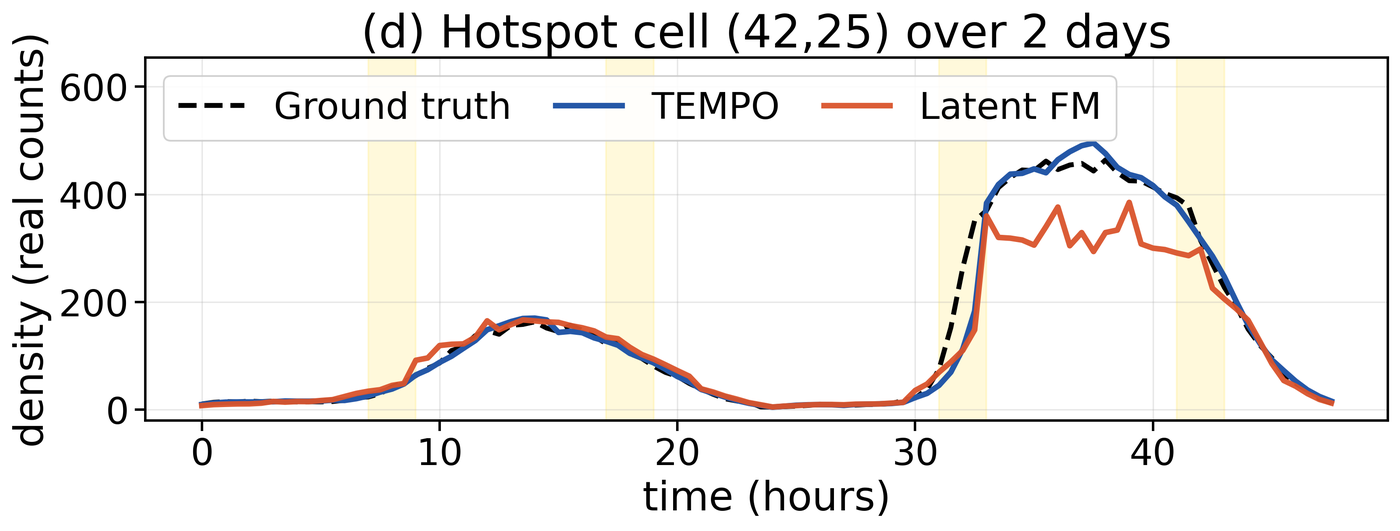
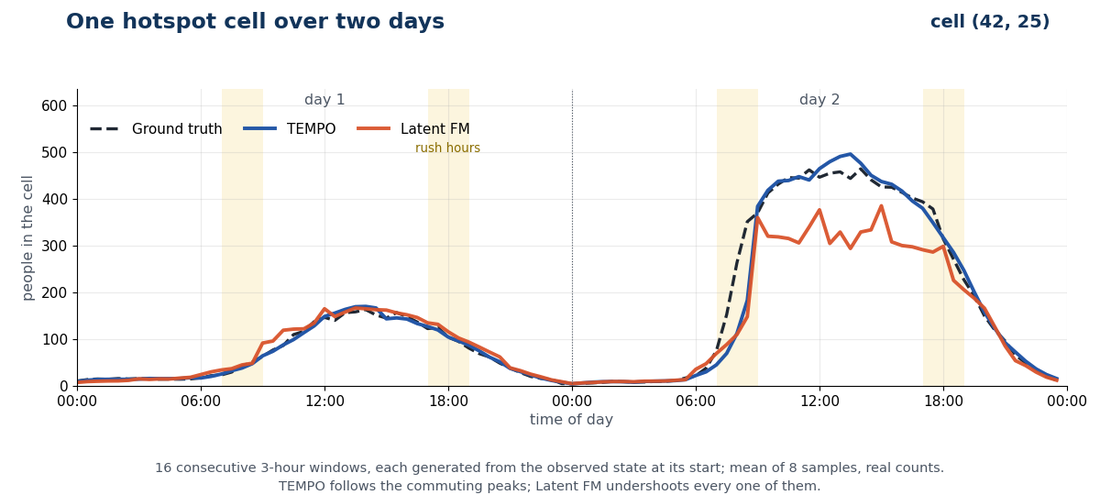
Turn the page into a guided demo
The README no longer reads as a pile of materials. It now walks through five
visuals in one style: the hero animation, a new velocity-field animation,
the architecture, continuity residuals, a two-day hotspot series and the
latent generation paths, each with two or three sentences. Results, ablation
and limitations follow; paper, poster, talk, DOI and contact sit in one table
at the end. Poster crops (headline strip, mass curve, poster thumbnail) are
replaced by figures rendered with poster/make_readme_figures.py from the
cached arrays, matching the hero GIF.

Changed region(s): [[0.0, 0.0, 1.0, 0.8788], [0.1236, 0.9091, 0.8655, 1.0], [0.8964, 0.6364, 0.9273, 0.7273]]

diff --git a/README.md b/README.md
@@ -1,17 +1,17 @@
 <div align="center">
 
-# TEMPO: Physics-Informed Urban Flow Simulation via Velocity-Driven Latent Flow Matching
+# TEMPO
+
+### Physics-Informed Urban Flow Simulation via Velocity-Driven Latent Flow Matching
 
 **Han-Chi Chen** · **Wei-Zhi Wang** · **Chi-Tsun Lin** · **Yi-Chung Chen**<sup>✉</sup>
+<br>Computer Science and Engineering, National Chung Hsing University, Taiwan
 
-Computer Science and Engineering, National Chung Hsing University, Taiwan
+**ACM SIGSPATIAL 2026** · Riverside, CA · Poster S-34
 
-**ACM SIGSPATIAL 2026** · Riverside, CA · November 3–6, 2026 · **Poster S-34**
-
-[![Paper](https://img.shields.io/badge/Paper-PDF-2457A7?style=for-the-badge)](paper/TEMPO_SIGSPATIAL2026.pdf)
-[![Poster](https://img.shields.io/badge/Poster-36%C3%9748%20in-2457A7?style=for-the-badge)](poster/TEMPO_poster_S-34.pdf)
-[![Lightning talk](https://img.shields.io/badge/Lightning%20talk-70%20s%20video-2457A7?style=for-the-badge)](video/TEMPO_lightning_talk.mp4)
-[![DOI](https://img.shields.io/badge/DOI-10.1145%2F3841645.3843372-12345A?style=for-the-badge)](https://doi.org/10.1145/3841645.3843372)
+[![Paper](https://img.shields.io/badge/Paper-PDF-2457A7)](paper/TEMPO_SIGSPATIAL2026.pdf)
+[![Poster](https://img.shields.io/badge/Poster-PDF-2457A7)](poster/TEMPO_poster_S-34.pdf)
+[![Lightning talk](https://img.shields.io/badge/Lightning%20talk-70%20s-2457A7)](video/TEMPO_lightning_talk.mp4)
 
 </div>
 
@@ -20,152 +20,126 @@ Computer Science and Engineering, National Chung Hsing University, Taiwan
 </p>
 
 <p align="center"><b>Same latent space, same generator. Only TEMPO keeps the head count.</b><br>
-Left: where the people are. Middle and right: prediction minus truth for Latent FM and for TEMPO on the same colour scale (red = too many people, blue = too few; smoothed over one cell for display). One YJMob100K test window (test day 2, from 09:00), six 30-minute steps, mean of 20 samples. Within an hour the Latent FM baseline has lost 7–9% of the people on the map, most of them in the city centre, and never gets them back; TEMPO advects the observed density through a continuity equation and stays within 4% of the true head count (mean error over the six steps: 7.1% vs. 2.3%).</p>
+A generative crowd-flow model that cannot create or destroy people. One held-out YJMob100K window, six 30-minute steps: the Latent FM baseline loses 7–9% of the people within an hour, TEMPO stays within 4%.</p>
 
-## TL;DR
+## In three sentences
 
 - **Problem.** Generative crowd-flow models, diffusion models in particular, routinely create or destroy people: nothing in their density update enforces continuity, and a soft physics loss does not survive sampling noise.
-- **Idea.** Put the physics *inside* the generator. TEMPO decodes a latent trajectory into a velocity field and advects density through a hard-coded continuity equation, and it starts Flow Matching from the encoded observed state (a **State-Informed Prior**) instead of pure noise.
-- **Result.** On YJMob100K (100K people, 75 days) TEMPO has the lowest MAE, RMSE and CRPS of five methods and cuts the mass-conservation error by **55%** against the same latent generator without physics.
+- **Idea.** Put the physics *inside* the generator. TEMPO decodes a velocity field and advects the density through a hard-coded continuity equation, and it starts Flow Matching from the encoded observed state instead of pure noise.
+- **Result.** On YJMob100K (100K people, 75 days) TEMPO has the lowest MAE, RMSE and CRPS of five methods and 55% less mass error than the same latent generator without physics.
 
 <p align="center">
   <picture>
-    <source media="(max-width: 700px)" srcset="assets/headline_numbers_stack.png">
-    <img src="assets/headline_numbers.png" width="100%" alt="Mass error vs. Latent FM −55.0% (0.0253 → 0.0114); MAE vs. Latent FM −17.0% (0.0112 → 0.0093, lowest MAE, RMSE and CRPS of all five methods); mass error vs. Gaussian-prior TEMPO −16.2% (0.0136 → 0.0114, ablation of the State-Informed Prior, MAE unchanged)">
+    <source media="(max-width: 700px)" srcset="assets/stats_stack.png">
+    <img src="assets/stats.png" width="100%" alt="Mass error vs. Latent FM −55.0% (0.0253 → 0.0114); MAE vs. Latent FM −17.0% (0.0112 → 0.0093, lowest MAE, RMSE and CRPS of five methods); mass error from the State-Informed Prior alone −16.2% (0.0136 → 0.0114, MAE unchanged)">
   </picture>
 </p>
 
-## How it works
+## A guided tour
+
+### 1 · TEMPO predicts motion, not just occupancy
+
+<p align="center">
+  <img src="assets/velocity.gif" width="100%" alt="Animation over six steps: TEMPO's predicted density on the left, and the predicted velocity field as arrows on the right, one arrow per 3×3 cells where people are. Arrows converge on the city centre during the morning.">
+</p>
+
+The generator never outputs the next density map directly. It outputs a **velocity field** for every step, and the density is moved along it. Where arrows converge, people accumulate; where they diverge, people leave. Nothing else can change the head count.
+
+### 2 · The density update is a conservation law, not a loss term
 
 <p align="center">
   <img src="assets/architecture.png" width="100%" alt="TEMPO architecture: a frozen VAE encodes the observed density and POI maps; latent Flow Matching with a State-Informed Prior generates the future latent trajectory; a causal Velocity Decoder turns it into a velocity field; a hard-coded continuity equation plus a small CorrectionNet advects the density forward.">
 </p>
 
-A frozen VAE encodes the observed density $D_{t_0}$ and the POI maps. Latent Flow Matching generates the future latent trajectory, a causal Velocity Decoder turns it into a velocity field $V_t$, and the density is advected forward by the physics step. Two inductive biases do the work:
-
-**1. State-Informed Prior.** Standard Flow Matching starts from $\mathcal{N}(0, I)$, far from the data. TEMPO starts from the encoded observed state:
-
-$$x_0 \sim \mathcal{N}(z_{t_0},\,\sigma^2 I),\quad \sigma = 1,\qquad x_t = (1-t)\,x_0 + t\,x_1$$
-
-The transport from source to target is shorter and stays in the physically feasible region. Trained with the latent OT-CFM objective (3D U-Net; POI via channel concatenation and FiLM).
-
-**2. Hard-coded continuity equation.** The velocity field is its own state, and the density update is the discrete continuity equation, not a loss term:
+A frozen VAE encodes the observed density $D_{t_0}$ and the POI maps. Latent Flow Matching generates the future latent trajectory, a causal Velocity Decoder turns it into $V_t$, and the density is advected by the discrete continuity equation:
 
 $$D_{t+1} = \mathrm{ReLU}\Big(D_t - \Delta t\,\nabla\cdot\big(D_t V_t\big) + \mathrm{Corr}_\psi(D_t, V_t)\Big)$$
 
-The divergence uses fixed $3\times3$ central-difference kernels (non-trainable buffers, no learnable physics parameters). The only learned part of the density update is the lightweight CorrectionNet, which absorbs what the idealised equation misses. The operator is rolled out for $T = 6$ steps; ReLU keeps the density non-negative.
+The divergence is a fixed $3\times3$ central-difference stencil with no learnable physics parameters. The only learned part of the update is the lightweight CorrectionNet, which absorbs what the idealised equation misses. Remove the physics and the mass error grows more than tenfold; remove the CorrectionNet and it grows almost as much. The two are jointly necessary.
 
-**Training in three decoupled stages:** VAE (ELBO, then frozen) → Flow Matching U-Net → fine-tune the Velocity Decoder and CorrectionNet on *FM-sampled* latents, which removes the train–inference shift at the decoder input.
+<details>
+<summary><b>More on the architecture and training</b></summary>
 
-## Results on YJMob100K
+- **State-Informed Prior.** Standard Flow Matching starts from $\mathcal{N}(0, I)$, far from the data. TEMPO starts from the encoded observed state, $x_0 \sim \mathcal{N}(z_{t_0}, \sigma^2 I)$ with $\sigma = 1$, and interpolates $x_t = (1-t)\,x_0 + t\,x_1$. Trained with the latent OT-CFM objective on a 3D U-Net; POI maps enter by channel concatenation and FiLM, time of day and week by FiLM.
+- **Velocity Decoder.** A causal 3D residual network over the latent trajectory: step $t$ only sees steps $\le t$, so no future information leaks into the velocity.
+- **Physics step.** The operator is rolled out for $T = 6$ steps of 30 minutes; ReLU keeps the density non-negative.
+- **Training in three decoupled stages.** VAE (ELBO, then frozen) → Flow Matching U-Net → fine-tune the Velocity Decoder and CorrectionNet on *FM-sampled* latents, which removes the train–inference shift at the decoder input. Skipping this fine-tune more than doubles the mass error.
 
-Mean over 5 seeds; metrics in log-normalised space; lower is better everywhere. Latent FM is the ablation twin of TEMPO: same VAE latent space, same Flow Matching generator, a plain decoder instead of the physics step.
+</details>
+
+### 3 · Spurious sources and sinks disappear
+
+<p align="center">
+  <img src="assets/residuals.png" width="100%" alt="Continuity residual maps for Latent FM (left, mottled with red sources and blue sinks; mean |S| 0.019, net source +8.1, 39% of cells near zero) and TEMPO (right, near white; mean |S| 0.014, net source −0.1, 54% of cells near zero).">
+</p>
+
+Fit the same mass-conserving optical flow to each model's prediction and map what it cannot explain. Latent FM is mottled with places where people appear from nowhere or vanish into it; TEMPO is close to white, with a net source of −0.1 against +8.1.
+
+### 4 · The head count holds over two days, not just six steps
+
+<p align="center">
+  <img src="assets/hotspot.png" width="100%" alt="Number of people in one hotspot cell over two days, 16 consecutive 3-hour windows: TEMPO follows the ground-truth commuting peaks, Latent FM undershoots every one of them.">
+</p>
+
+One hotspot cell, sixteen consecutive 3-hour windows, each generated from the observed state at its start. Latent FM undershoots every commuting peak; TEMPO follows them.
+
+### 5 · Starting from the observed state shortens the transport
+
+<p align="center">
+  <img src="assets/prior_paths.png" width="100%" alt="Generation paths in latent PCA space for one test case: Gaussian sources (orange) start far from the target and travel long paths; state-informed sources (blue) start next to it.">
+</p>
+
+Standard Flow Matching has to carry every sample from pure noise all the way to the data. Starting from the encoded observed state, the transport is shorter (not straighter: straightness is actually lower, 0.66 vs. 0.93) and stays in the physically feasible region. On its own the prior cuts the mass error by 16.2% and improves calibration (Cal-50% 0.39 → 0.42) at zero MAE cost.
+
+## The numbers
+
+YJMob100K, mean over 5 seeds, log-normalised space, lower is better. Latent FM is the ablation twin of TEMPO: same VAE latent space, same Flow Matching generator, a plain decoder instead of the physics step.
 
 | Method | MAE | RMSE | Mass error | CRPS |
 |---|:-:|:-:|:-:|:-:|
 | ST-ResNet | 0.0200 | 0.0335 | 0.0293 | – |
 | Graph WaveNet | 0.0496 | 0.0648 | 0.1756 | – |
 | DiffSTG | 0.0225 | 0.0354 | 0.1560 | 0.0196 |
-| Latent FM (same latent space, no physics) | 0.0112 | 0.0169 | 0.0253 | 0.0081 |
+| Latent FM | 0.0112 | 0.0169 | 0.0253 | 0.0081 |
 | **TEMPO** | **0.0093** | **0.0152** | **0.0114** | **0.0076** |
 
-**vs. Latent FM:** mass error 0.0253 → 0.0114 (**−55.0%**) with better MAE, RMSE and CRPS. **vs. DiffSTG:** mass error 0.1560, so black-box diffusion decouples the statistics from the physics.
-
-### Physical plausibility
-
-<p align="center">
-  <img src="assets/residuals.png" width="100%" alt="Continuity residual maps for Latent FM (left, mottled with spurious sources and sinks) and TEMPO (right, near zero), fitted with the same mass-conserving optical flow.">
-</p>
-
-Continuity residuals fitted with the same mass-conserving optical flow, Latent FM → TEMPO: mean |S| 0.019 → 0.014; net source ΣS +8.1 → −0.1; cells with |S| < 0.01: 39% → 54%. Latent FM is mottled with spurious sources and sinks; TEMPO is near zero.
-
-| Total mass per step | One hotspot over two days |
-|:-:|:-:|
-| <img src="assets/mass_curve.png" alt="Total mass per 30-min step: TEMPO follows the ground truth, Latent FM drifts; mean error 7.1% → 2.3%."> | <img src="assets/hotspot.png" alt="Density of one hotspot cell over two days, 16 consecutive 3-hour windows: TEMPO tracks the commuting peaks, Latent FM undershoots them."> |
-| mean error 7.1% → 2.3% | 16 consecutive 3-h windows from the observed state (8-sample mean): TEMPO tracks the commuting peaks, Latent FM undershoots them |
-
-**Trade-off.** The hard constraint narrows the set of admissible trajectories: TEMPO's 50% predictive intervals are narrower than nominal (Cal-50% 0.42 vs. the ideal 0.50; Latent FM 0.53) and sample diversity is lower (0.0071 vs. 0.0159). The Gaussian-prior variant has the same diversity but a higher mass error, so lower diversity alone does not explain the conservation gain.
-
 <details>
-<summary><b>Ablation: mass error (lower is better)</b></summary>
+<summary><b>Ablation: which part keeps the mass?</b></summary>
 
 | Variant | Mass error |
 |---|:-:|
 | **TEMPO (full)** | **0.0114** |
-| Gaussian prior $\mathcal{N}(0, I)$ instead of the State-Informed Prior | 0.0136 |
+| Gaussian prior instead of the State-Informed Prior | 0.0136 |
 | no Decoder fine-tune on FM-sampled latents | 0.0260 |
 | no CorrectionNet | 0.1319 |
 | no continuity physics | 0.1427 |
 | Latent FM baseline | 0.0253 |
 | DiffSTG | 0.1560 |
 
-Removing the continuity physics raises the mass error more than tenfold; removing the CorrectionNet instead gives 0.1319, so the two terms are jointly necessary. Skipping the decoder fine-tune more than doubles it.
-
-</details>
-
-### Why the prior helps
-
-<p align="center">
-  <img src="assets/prior_paths.png" width="70%" alt="Generation paths in latent PCA space for one test case: Gaussian sources (red) start far from the target and travel long paths; state-informed sources (blue) start next to it.">
-</p>
-
-Additional analysis, not in the paper: one representative test case, 8 sampled paths in latent PCA space, same target. Gaussian sources start far away and travel long paths; state-informed sources start next to the target, so the transport is shorter. The ablation agrees: the prior cuts the mass error 0.0136 → 0.0114 (**−16.2%**) and improves calibration (Cal-50% 0.39 → 0.42) at zero MAE cost.
-
-## Poster and lightning talk
-
-<p align="center">
-  <a href="poster/TEMPO_poster_S-34.pdf"><img src="assets/poster_thumb.jpg" width="60%" alt="Thumbnail of the SIGSPATIAL 2026 poster S-34; click to open the PDF."></a>
-</p>
-
-- **Poster S-34** (36 × 48 in): [PDF](poster/TEMPO_poster_S-34.pdf)
-- **Lightning talk** (70 s, silent, 1080p): [MP4](video/TEMPO_lightning_talk.mp4)
-- **Paper** (4 pages, open access): [PDF](paper/TEMPO_SIGSPATIAL2026.pdf) · [DOI 10.1145/3841645.3843372](https://doi.org/10.1145/3841645.3843372)
-
-## FAQ
-
-<details>
-<summary><b>Isn't a hard-coded continuity equation too rigid for real crowds?</b></summary>
-
-That is what the CorrectionNet is for: it compensates the gap between the idealised equation and reality. Removing it raises MAE from 0.0093 to 0.0154 and mass error from 0.0114 to 0.1319; removing the continuity term instead gives a mass error of 0.1427. The operator provides the structure, the corrector absorbs the discretisation error. Balancing the two terms is future work.
-
-</details>
-
-<details>
-<summary><b>Why Flow Matching instead of diffusion?</b></summary>
-
-Nearly straight transport paths, lower training variance and faster sampling than DDPM. More importantly for us, a data-dependent source distribution is natural in Flow Matching: we can start from the observed state, which is awkward in standard DDPM.
-
 </details>
 
 <details>
 <summary><b>How is the mass error defined?</b></summary>
 
-For each future step, the absolute relative error between the predicted and the ground-truth total density over the whole map, in log-normalised space, averaged over the 6 steps and over the test chunks (Eq. 4 in the paper). It measures agreement with the ground-truth total, which itself varies in time, so it is a mass-consistency metric rather than strict conservation.
+For each future step, the absolute relative error between the predicted and the ground-truth total density over the whole map, averaged over the 6 steps and over the test windows (Eq. 4 in the paper). The ground-truth total itself varies in time, so this measures mass *consistency* with the data rather than strict conservation.
 
 </details>
 
-<details>
-<summary><b>Calibration and sample diversity are worse than the unconstrained baseline. Why?</b></summary>
+## What TEMPO does not do
 
-The hard constraint narrows the set of admissible trajectories, so the samples spread less. Cal-50% is 0.42 vs. 0.53 for Latent FM; both are off the ideal 0.50 in opposite directions (TEMPO's intervals are narrower than nominal, Latent FM's wider). We see this as the fidelity–diversity trade-off of a hard physical constraint; rebalancing the CorrectionNet against the physics term is the obvious knob.
+- **It is less diverse than the unconstrained baseline.** The hard constraint narrows the set of admissible trajectories: 50% predictive intervals are narrower than nominal (Cal-50% 0.42 vs. the ideal 0.50; Latent FM 0.53) and sample diversity is lower (0.0071 vs. 0.0159). Rebalancing the CorrectionNet against the physics term is the obvious knob.
+- **It is not strict conservation.** The continuity step moves people; the CorrectionNet can still add or remove some, which is what lets the model follow a ground-truth total that changes over time.
+- **It is tested on one dataset.** YJMob100K with 5 seeds. Other cities, out-of-distribution events and conservation-aware baselines are future work.
 
-</details>
+## Materials
 
-<details>
-<summary><b>Does the Velocity Decoder leak future information?</b></summary>
-
-No. It is a causal 3D residual network over the latent trajectory, so step $t$ only sees steps $\le t$.
-
-</details>
-
-<details>
-<summary><b>Only one dataset?</b></summary>
-
-Yes, YJMob100K with 5 seeds. Extending to other cities, to out-of-distribution events and to conservation-aware baselines is explicit future work.
-
-</details>
-
-## Citation
+| | |
+|---|---|
+| **Paper** · 4 pages, open access (CC BY 4.0) | [PDF](paper/TEMPO_SIGSPATIAL2026.pdf) · [DOI 10.1145/3841645.3843372](https://doi.org/10.1145/3841645.3843372) (resolves once the proceedings are in the ACM Digital Library) |
+| **Poster S-34** · 36 × 48 in | [PDF](poster/TEMPO_poster_S-34.pdf) |
+| **Lightning talk** · 70 s, silent, 1080p | [MP4](video/TEMPO_lightning_talk.mp4) |
+| **Code and checkpoints** | not public at the moment; e-mail the first author |
+| **Contact** | Han-Chi Chen, hank51201@gmail.com · Yi-Chung Chen (corresponding author), chenyich@nchu.edu.tw |
 
 ```bibtex
 @inproceedings{chen2026tempo,
@@ -179,15 +153,4 @@ Yes, YJMob100K with 5 seeds. Extending to other cities, to out-of-distribution e
 }
 ```
 
-## Code
-
-The implementation is not public at the moment. If you are interested in the code or the trained checkpoints, please e-mail the first author.
-
-## Contact
-
-- Han-Chi Chen: hank51201@gmail.com
-- Yi-Chung Chen (corresponding author): chenyich@nchu.edu.tw
-
-## Acknowledgements
-
-This work was supported by the National Science and Technology Council (NSTC), Taiwan, under grant 115-2121-M-005-005. The paper is published open access under the [Creative Commons Attribution 4.0 International License](https://creativecommons.org/licenses/by/4.0/).
+Supported by the National Science and Technology Council (NSTC), Taiwan, grant 115-2121-M-005-005.
